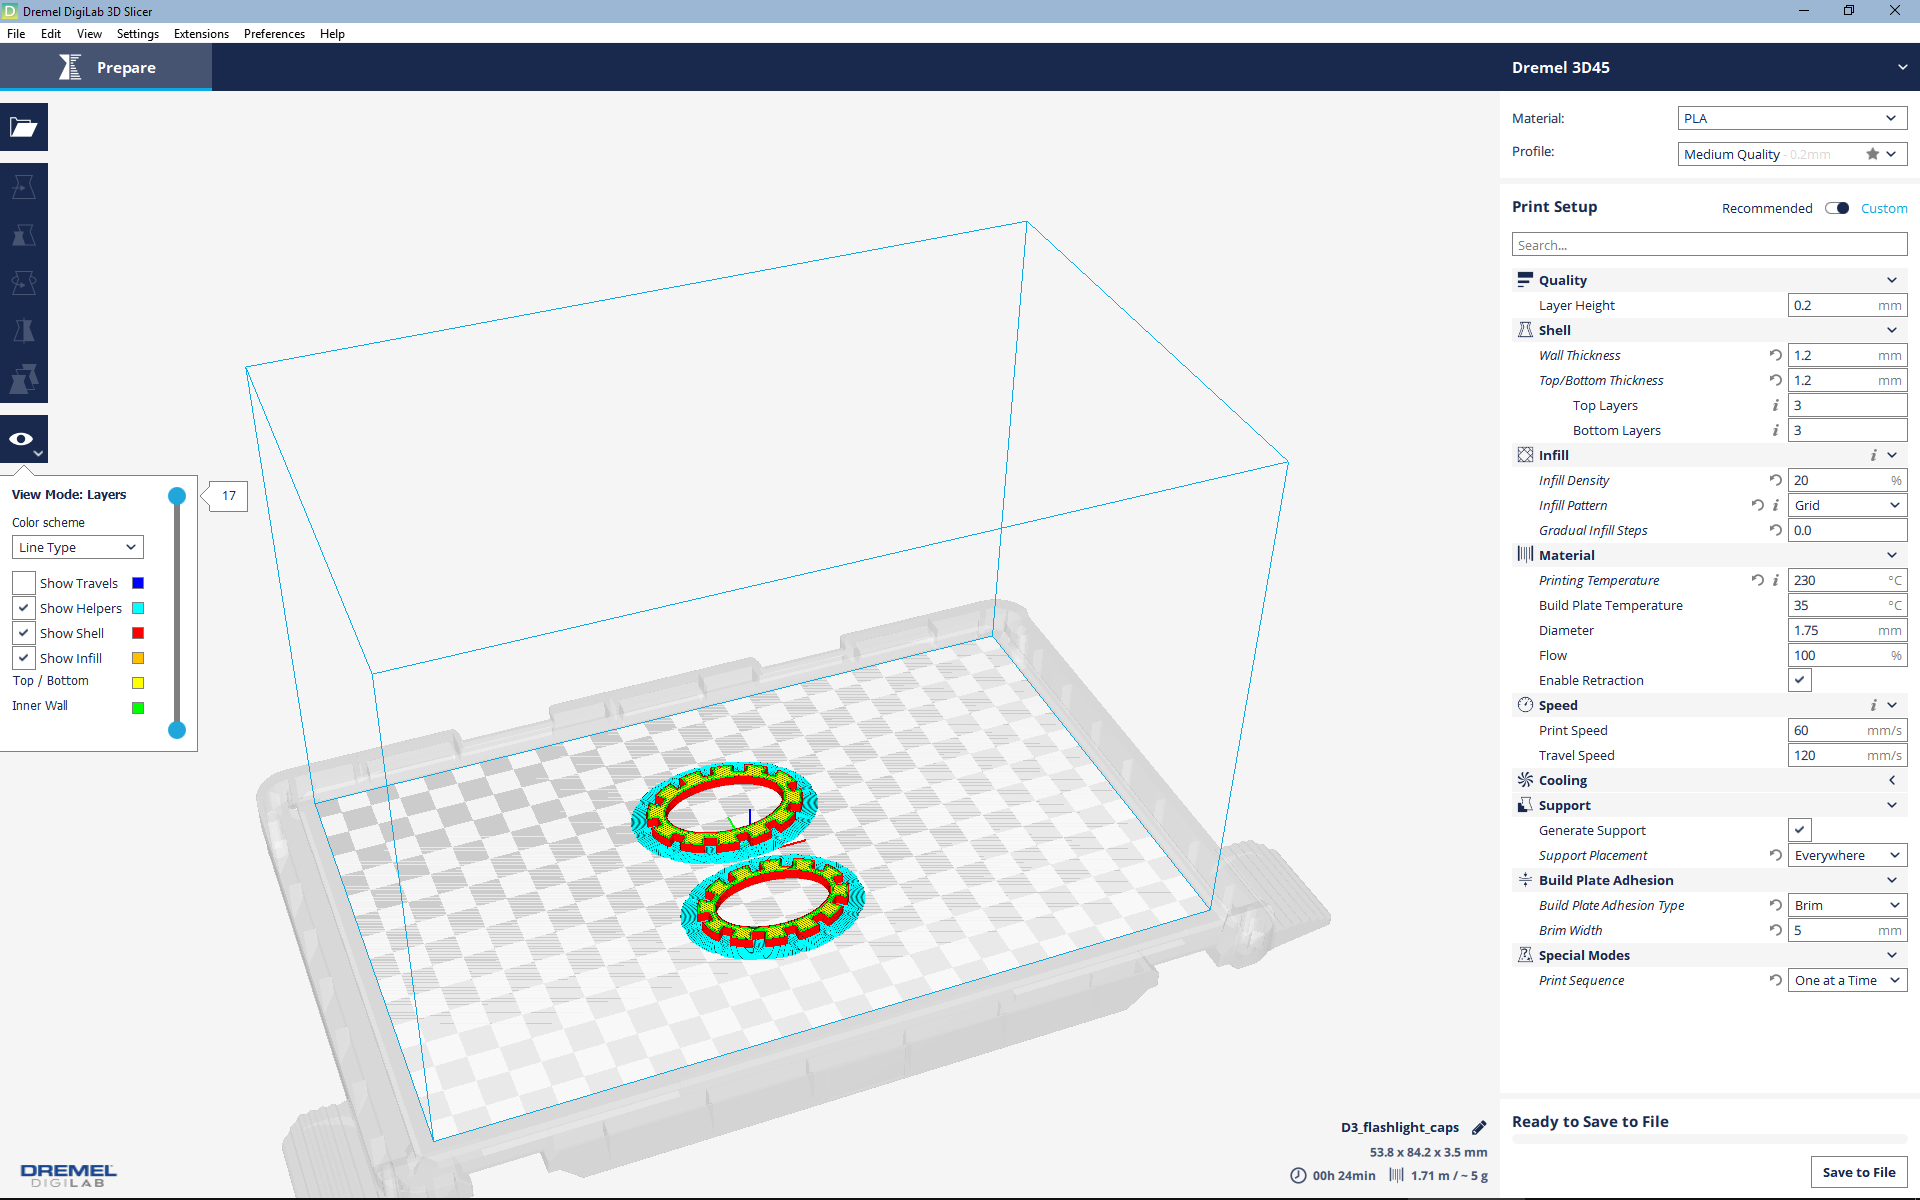
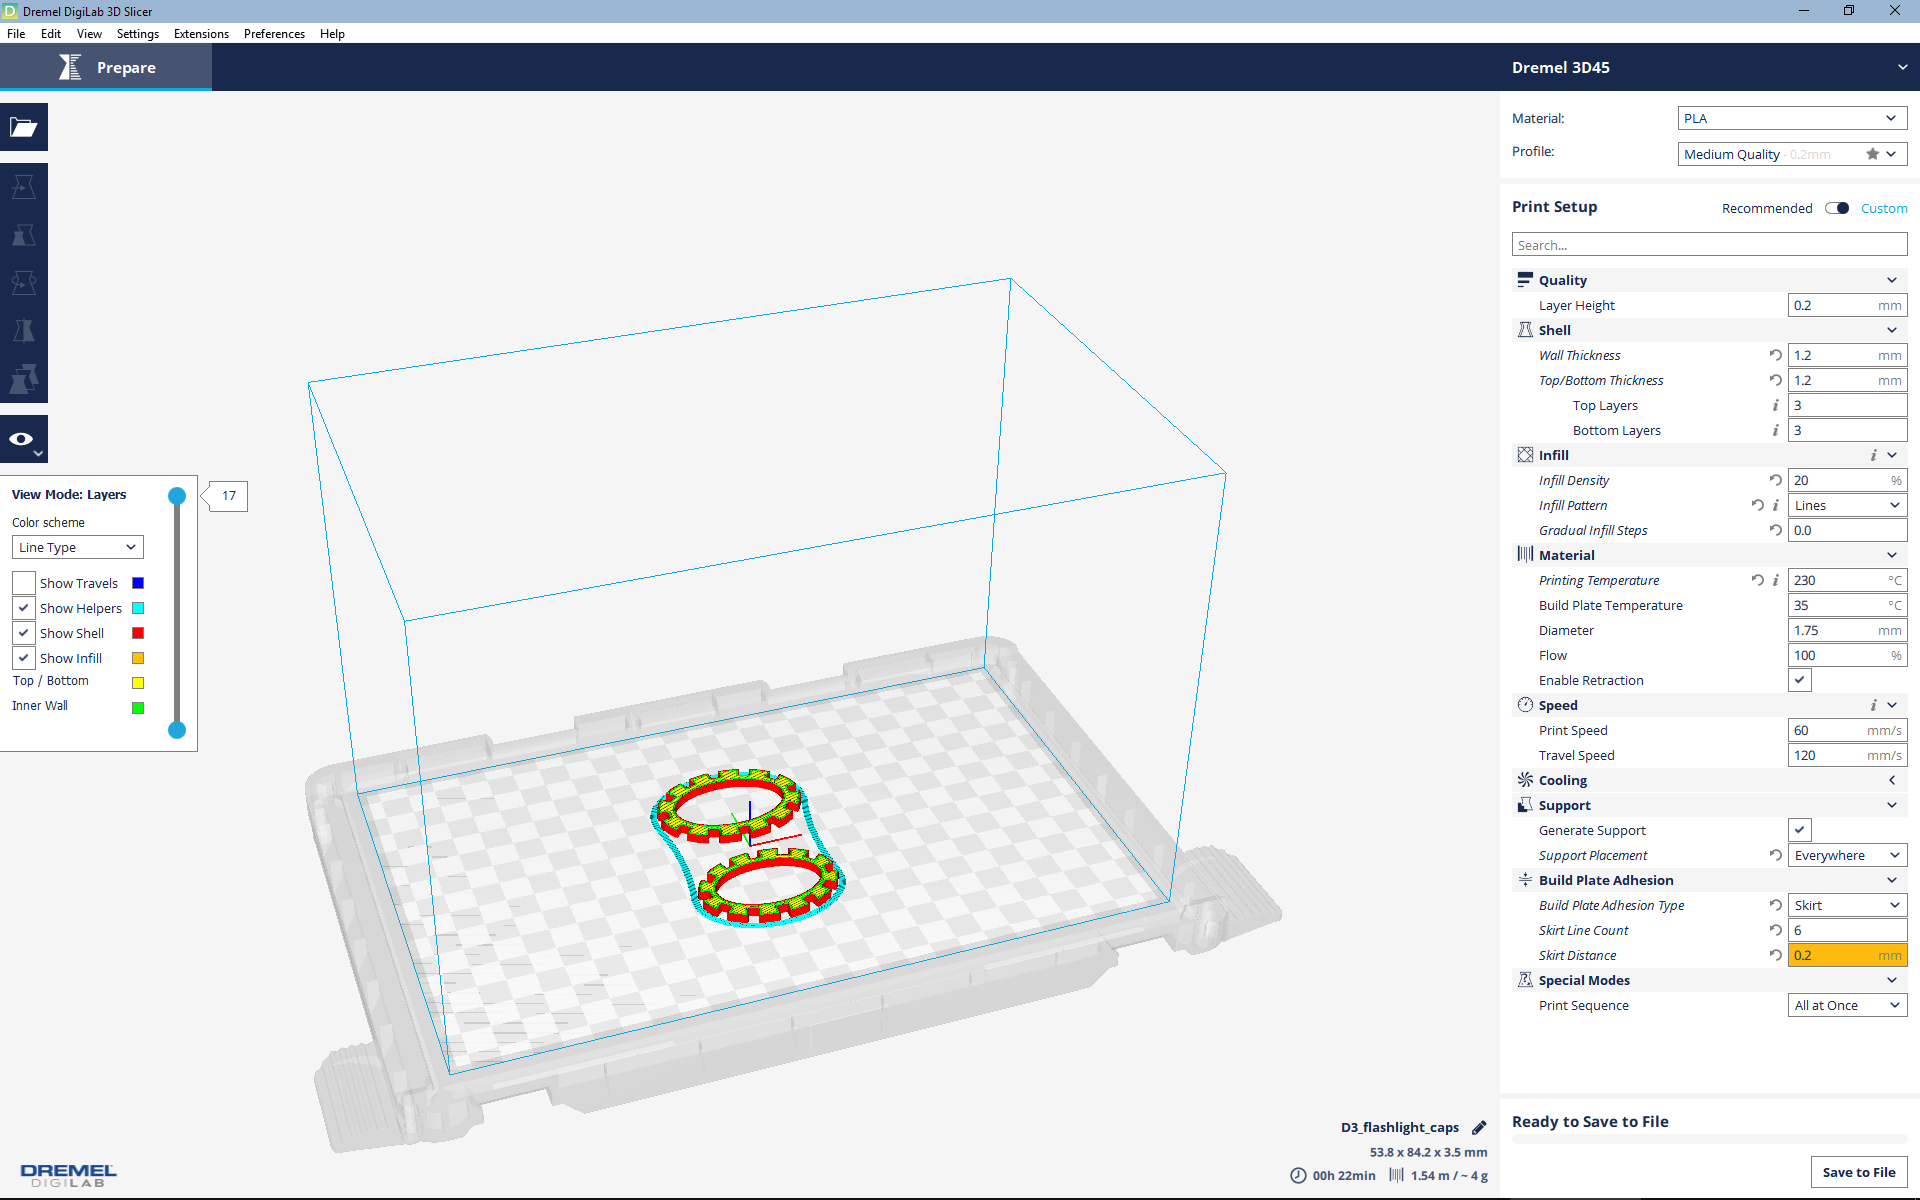
Assignment 3 minor edits.
Replaced an image which did not have the correct settings listed. Added some additional information on how 3D print settings were changed to adjust for problems.

diff --git a/assignment3.html b/assignment3.html
@@ -69,7 +69,7 @@
 			</p>
 			<img src="ass03_05.png" width=1000>
 			<img src="ass03_06.jpg" width=300>
-			<p>The initial print ran into some errors, where some of the filament lifted up from the plate, so I thought I might have put too little glue and ran the print again. However, although the print didn't lift off this time, something went wrong and I saw that the filament had globbed up and the print was definitely not looking like the proper part. I ran out of time at this point and had to return another day. I made iterations on the part design and tried reprinting again. Plate adhesion was much better in my next run, but the 3D print itself didn't seem to match the settings. However, the part still worked for the purposes of this assignment and I will work out kinks in future (since I essentially ran out of time to use the makerspace).
+			<p>The initial print ran into some errors, where some of the filament lifted up from the plate, so I thought I might have put too little glue and ran the print again. However, although the print didn't lift off this time, something went wrong and I saw that the filament had globbed up and the print was definitely not looking like the proper part. I decided to try changing the infill settings as well as the support settings to brim, in the hopes that adhesion would not play a factor at all, and to ensure that my part was strong enough to avoid damage during press fit. I ran out of time at this point and had to return another day. I made iterations on the part design and tried reprinting again. Plate adhesion was much better in my next run, but the 3D print itself didn't seem to match the settings, with no infill actually being created, just major gridlines. However, the part still worked for the purposes of this assignment and I will work out kinks in future (since I essentially ran out of time to use the makerspace).
 			</p>
 			<img src="ass03_07.png" width=1000>
 			<img src="ass03_08.jpg" width=500>
